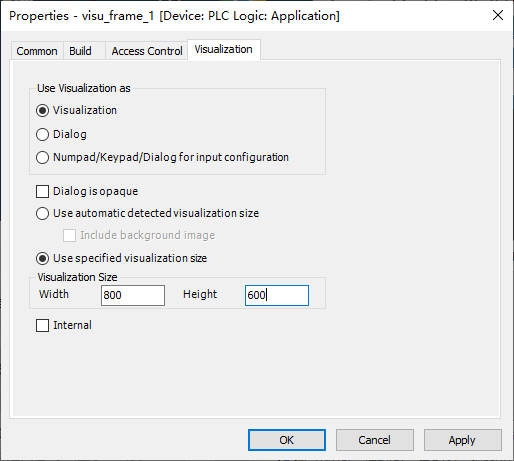
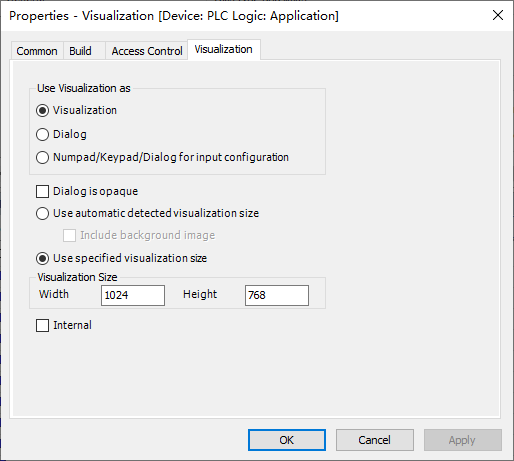
Update

diff --git a/docs/chapter_4.md b/docs/chapter_4.md
@@ -16,7 +16,7 @@ NOTE: **浏览器做visu的设置**
 
 ![](./images/4-1.png) 
 
-添加的Visu默认是一个Visualization，可以理解为一个页面。如果需要做对话框可以改变visu属性为dialog。在属性中也可以设置visu的页面大小，该大小为画布大小，还会在管理器里根据缩放选项缩放。
+添加的Visu默认是一个Visualization，可以理解为一个页面。如果需要做对话框可以改变visu属性为dialog。在属性中也可以设置visu的页面大小，该大小为画布大小，建议使用特定值而不是默认的自动检测。实际显示画布还会在visu管理器里根据缩放选项缩放。
 
 ![](./images/4-2.png) ![](./images/4-3.png)
 
